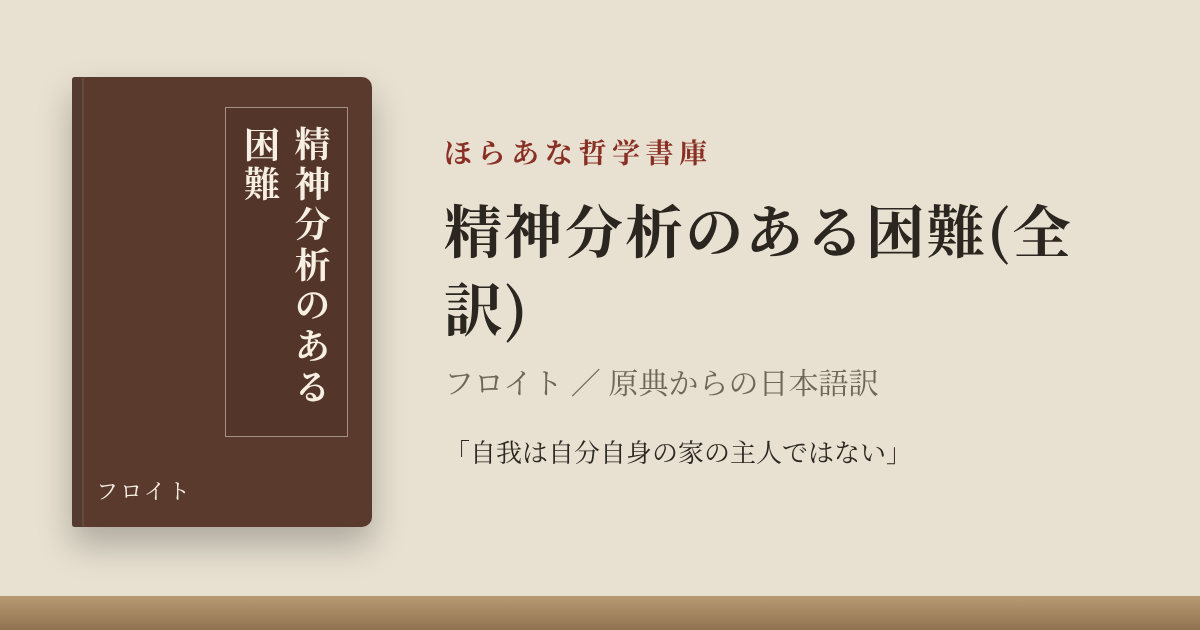
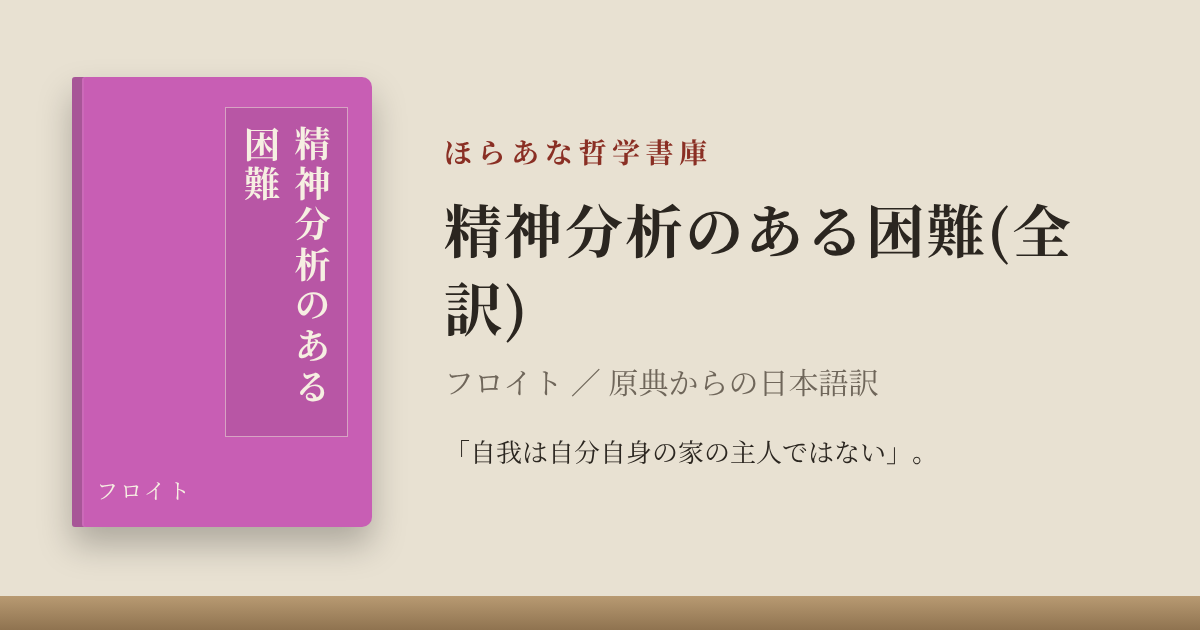
ジャンルを7つに組み直し、色調をそろえ、表紙にジャンル名を出す
- works.json の genres を7つに:古代哲学・中世・ルネサンス・近世哲学・ドイツ観念論・政治・経済思想・実存哲学・現代思想
- 7色は明るさと鮮やかさを青にそろえた(黄色と橙は使わない)
- 『啓蒙とは何か』はドイツ観念論、『精神分析のある困難』は現代思想に
- 表紙に著者名の下でジャンル名を出す(色だけに頼らない)
- OGP 画像を新しい色で作り直し

Claude-Session: https://claude.ai/code/session_01SC2TMaFXyGN2NL3ME41ybY

Changed region(s): [[0.0617, 0.1206, 0.3083, 0.8444]]

diff --git a/index.html b/index.html
@@ -93,7 +93,10 @@
             <a class="book-cover" href="philosophy/kant-aufklaerung.html" data-cover="kant-aufklaerung">
                 <span class="badge">全訳</span>
                 <span class="title">啓蒙とは何か</span>
-                <span class="author">カント</span>
+                <span class="foot">
+                    <span class="author">カント</span>
+                    <span class="genre">ドイツ観念論</span>
+                </span>
                 <span class="progress-bar" aria-hidden="true"></span>
             </a>
             <div class="book-info">1784年/ドイツ語原典より。「あえて賢くあれ、自分の悟性を用いる勇気をもて」。</div>
@@ -112,7 +115,10 @@
             <a class="book-cover" href="philosophy/freud-difficulty.html" data-cover="freud-difficulty">
                 <span class="badge">全訳</span>
                 <span class="title long">精神分析のある困難</span>
-                <span class="author">フロイト</span>
+                <span class="foot">
+                    <span class="author">フロイト</span>
+                    <span class="genre">現代思想</span>
+                </span>
                 <span class="progress-bar" aria-hidden="true"></span>
             </a>
             <div class="book-info">1917年/ドイツ語原典より。「自我は自分自身の家の主人ではない」。</div>

diff --git a/site.css b/site.css
@@ -93,7 +93,7 @@ a:hover, a:focus-visible { color: var(--accent); }
     padding: 14px 12px 12px;
     color: var(--black);
     text-decoration: none;
-    background-color: var(--cover, #5098f4);
+    background-color: var(--cover, #438af1);
     background-image: radial-gradient(circle at center, rgba(0, 0, 0, .22) 0 1.1px, transparent 1.4px);
     background-size: 5px 5px;
     position: relative;
@@ -129,10 +129,24 @@ a:hover, a:focus-visible { color: var(--accent); }
     max-height: none;
 }
 
+.book-cover .foot {
+    display: flex;
+    flex-direction: column;
+    gap: 2px;
+    line-height: 1.4;
+}
+
 .book-cover .author {
     font-size: 14px;
     font-weight: 700;
     letter-spacing: .12em;
+}
+
+/* ジャンル名。色だけに頼らず文字でも伝える */
+.book-cover .genre {
+    font-size: 11px;
+    font-weight: 700;
+    letter-spacing: .08em;
 }
 
 .book-cover .badge {
@@ -206,8 +220,8 @@ footer {
 
 /* 表紙の色。_works/works.json の genre(genres の色)から作る */
 /* ここから自動生成(_tools/build.mjs) */
-.book-cover[data-cover="kant-aufklaerung"] { --cover: #fa6741; }
-.book-cover[data-cover="freud-difficulty"] { --cover: #f8a626; }
+.book-cover[data-cover="kant-aufklaerung"] { --cover: #139cb6; }
+.book-cover[data-cover="freud-difficulty"] { --cover: #c85eb4; }
 /* ここまで自動生成 */
 
 /* --- ユーザー別の本棚 --- */

diff --git a/_works/README.md b/_works/README.md
@@ -29,7 +29,7 @@
    | `originalTitle` | `Beantwortung der Frage: …` | JSON-LD |
    | `description` | 検索結果・SNS に出る説明文 | meta description、OGP、JSON-LD |
    | `shelfNote` | `「…」。` | 書棚の説明の後半、OGP 画像の一行 |
-   | `genre` | `政治・社会` | 表紙と OGP 画像の色(`genres` の色。YouTube のサムネイルと同じ) |
+   | `genre` | `ドイツ観念論` | 表紙のジャンル名と、表紙・OGP 画像の色(`genres` の7つのどれか。著者ごとに1つ。YouTube のサムネイルと同じ名前・同じ色) |
    | `updated` | `2026-11-07` | サイトマップ(トップの更新日にも反映) |
    | `ogpNote`(任意) | | OGP 画像の一行を `shelfNote` と変えたいとき |
 
